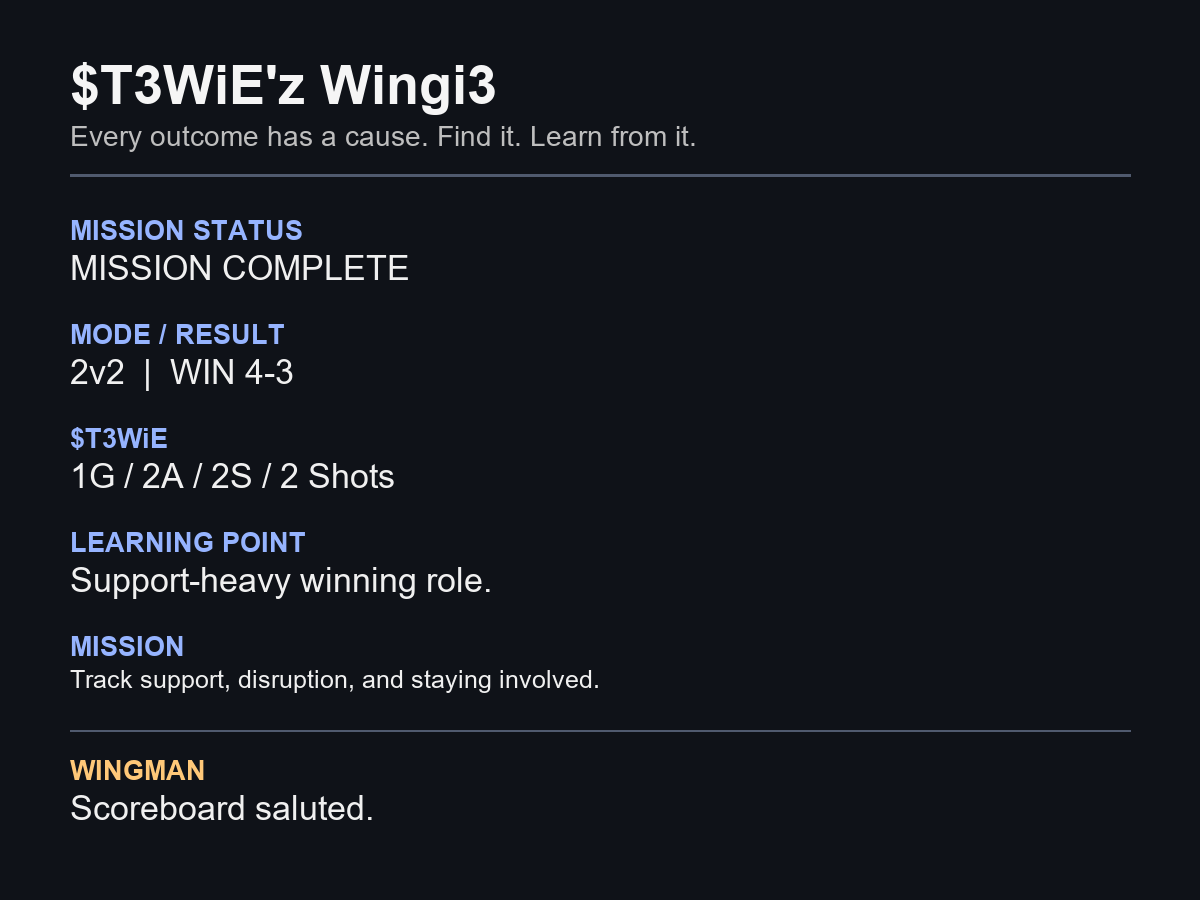
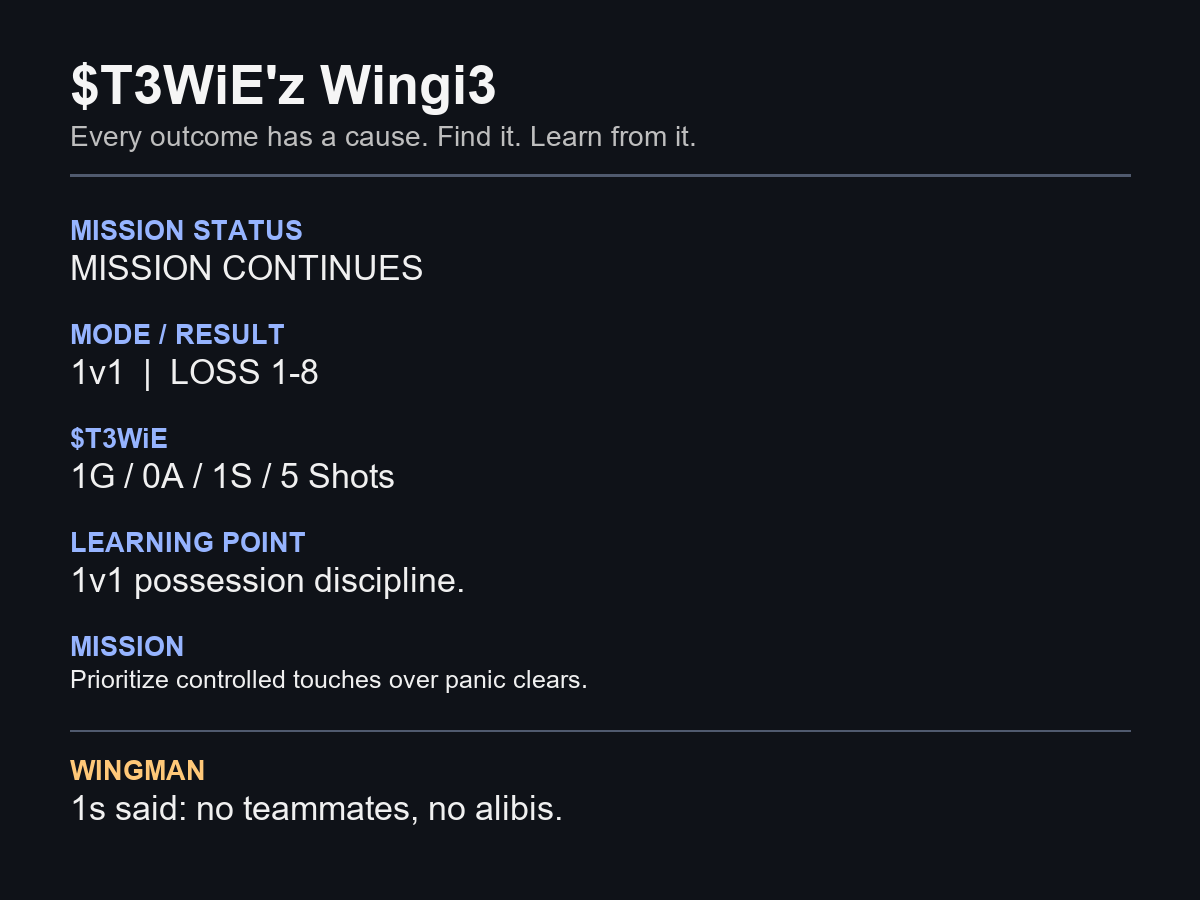
Dynamic Card Logic Online
Added mode and result-based learning point, mission, and wingman text.

diff --git a/make_card.py b/make_card.py
@@ -1,4 +1,4 @@
-import json
+import json
 from pathlib import Path
 from PIL import Image, ImageDraw, ImageFont
 
@@ -12,11 +12,7 @@ PLAYER_NAME = "$T3WiE"
 def font(size, bold=False):
     font_name = "arialbd.ttf" if bold else "arial.ttf"
     font_path = Path("C:/Windows/Fonts") / font_name
-
-    if font_path.exists():
-        return ImageFont.truetype(str(font_path), size)
-
-    return ImageFont.load_default()
+    return ImageFont.truetype(str(font_path), size) if font_path.exists() else ImageFont.load_default()
 
 
 def load_summary():
@@ -28,26 +24,21 @@ def find_player(data):
     for player in data["players"]:
         if player["name"] == PLAYER_NAME:
             return player
-
     raise SystemExit(f"Could not find player named {PLAYER_NAME}")
 
 
 def find_team(data, player):
     player_id = player["id"]["id"]
-
     for team in data["teams"]:
-        team_ids = [p["id"] for p in team["playerIds"]]
-        if player_id in team_ids:
+        if player_id in [p["id"] for p in team["playerIds"]]:
             return team
-
     raise SystemExit("Could not find player's team.")
 
 
-def get_opponent_team(data, player_team):
+def opponent_team(data, player_team):
     for team in data["teams"]:
         if team["isOrange"] != player_team["isOrange"]:
             return team
-
     raise SystemExit("Could not find opponent team.")
 
 
@@ -55,23 +46,54 @@ def draw_label(draw, label, value, x, y, label_font, value_font):
     draw.text((x, y), label, font=label_font, fill=(150, 180, 255))
     y += 34
     draw.text((x, y), value, font=value_font, fill=(240, 240, 240))
-    y += 70
-    return y
+    return y + 70
+
+
+def choose_debrief(team_size, result):
+    if team_size == 1 and result == "LOSS":
+        return (
+            "1v1 possession discipline.",
+            "Prioritize controlled touches over panic clears.",
+            "1s said: no teammates, no alibis."
+        )
+
+    if team_size == 1 and result == "WIN":
+        return (
+            "Solo control carried the match.",
+            "Keep protecting possession after every challenge.",
+            "No teammate needed. Apparently."
+        )
+
+    if result == "WIN":
+        return (
+            "Support-heavy winning role.",
+            "Track support, disruption, and staying involved.",
+            "Scoreboard saluted."
+        )
+
+    return (
+        "Team pressure broke down.",
+        "Stay connected and recover through small pads.",
+        "The rotation filed a complaint."
+    )
 
 
 def main():
     data = load_summary()
     metadata = data["gameMetadata"]
+    team_size = int(metadata["teamSize"])
 
     player = find_player(data)
-    player_team = find_team(data, player)
-    opponent_team = get_opponent_team(data, player_team)
+    my_team = find_team(data, player)
+    opp_team = opponent_team(data, my_team)
 
-    player_score = player_team["score"]
-    opponent_score = opponent_team["score"]
+    my_score = my_team["score"]
+    opp_score = opp_team["score"]
 
-    result = "WIN" if player_score > opponent_score else "LOSS"
+    result = "WIN" if my_score > opp_score else "LOSS"
     mission_status = "MISSION COMPLETE" if result == "WIN" else "MISSION CONTINUES"
+
+    learning_point, mission, wingman = choose_debrief(team_size, result)
 
     stat_line = f'{player["goals"]}G / {player["assists"]}A / {player["saves"]}S / {player["shots"]} Shots'
 
@@ -79,9 +101,9 @@ def main():
     img = Image.new("RGB", (width, height), (15, 18, 24))
     draw = ImageDraw.Draw(img)
 
-    title_font = font(54, bold=True)
+    title_font = font(54, True)
     subtitle_font = font(28)
-    label_font = font(27, bold=True)
+    label_font = font(27, True)
     value_font = font(34)
     small_font = font(25)
 
@@ -91,30 +113,20 @@ def main():
     draw.text((x, y), "$T3WiE'z Wingi3", font=title_font, fill=(245, 245, 245))
     y += 65
 
-    draw.text(
-        (x, y),
-        "Every outcome has a cause. Find it. Learn from it.",
-        font=subtitle_font,
-        fill=(190, 190, 190)
-    )
+    draw.text((x, y), "Every outcome has a cause. Find it. Learn from it.", font=subtitle_font, fill=(190, 190, 190))
     y += 55
 
     draw.line((x, y, width - x, y), fill=(80, 90, 110), width=3)
     y += 40
 
     y = draw_label(draw, "MISSION STATUS", mission_status, x, y, label_font, value_font)
-    y = draw_label(draw, "MODE / RESULT", f'{metadata["teamSize"]}v{metadata["teamSize"]}  |  {result} {player_score}-{opponent_score}', x, y, label_font, value_font)
+    y = draw_label(draw, "MODE / RESULT", f"{team_size}v{team_size}  |  {result} {my_score}-{opp_score}", x, y, label_font, value_font)
     y = draw_label(draw, PLAYER_NAME, stat_line, x, y, label_font, value_font)
-    y = draw_label(draw, "LEARNING POINT", "Support-heavy winning role.", x, y, label_font, value_font)
+    y = draw_label(draw, "LEARNING POINT", learning_point, x, y, label_font, value_font)
 
     draw.text((x, y), "MISSION", font=label_font, fill=(150, 180, 255))
     y += 34
-    draw.text(
-        (x, y),
-        "Track support, disruption, and staying involved.",
-        font=small_font,
-        fill=(240, 240, 240)
-    )
+    draw.text((x, y), mission, font=small_font, fill=(240, 240, 240))
     y += 65
 
     draw.line((x, y, width - x, y), fill=(80, 90, 110), width=2)
@@ -122,7 +134,7 @@ def main():
 
     draw.text((x, y), "WINGMAN", font=label_font, fill=(255, 200, 120))
     y += 34
-    draw.text((x, y), "Scoreboard saluted.", font=value_font, fill=(240, 240, 240))
+    draw.text((x, y), wingman, font=value_font, fill=(240, 240, 240))
 
     output_path = OUTPUT_DIR / "wingi3_card.png"
     img.save(output_path)